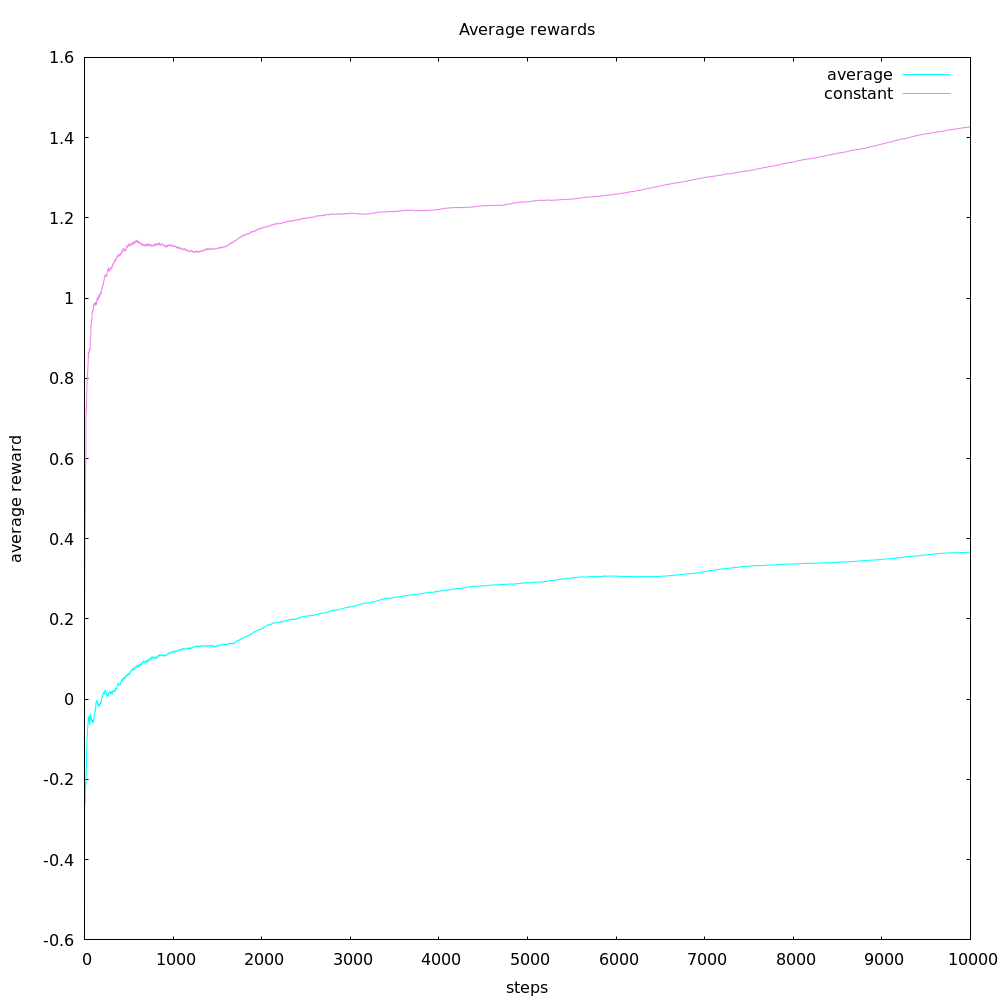
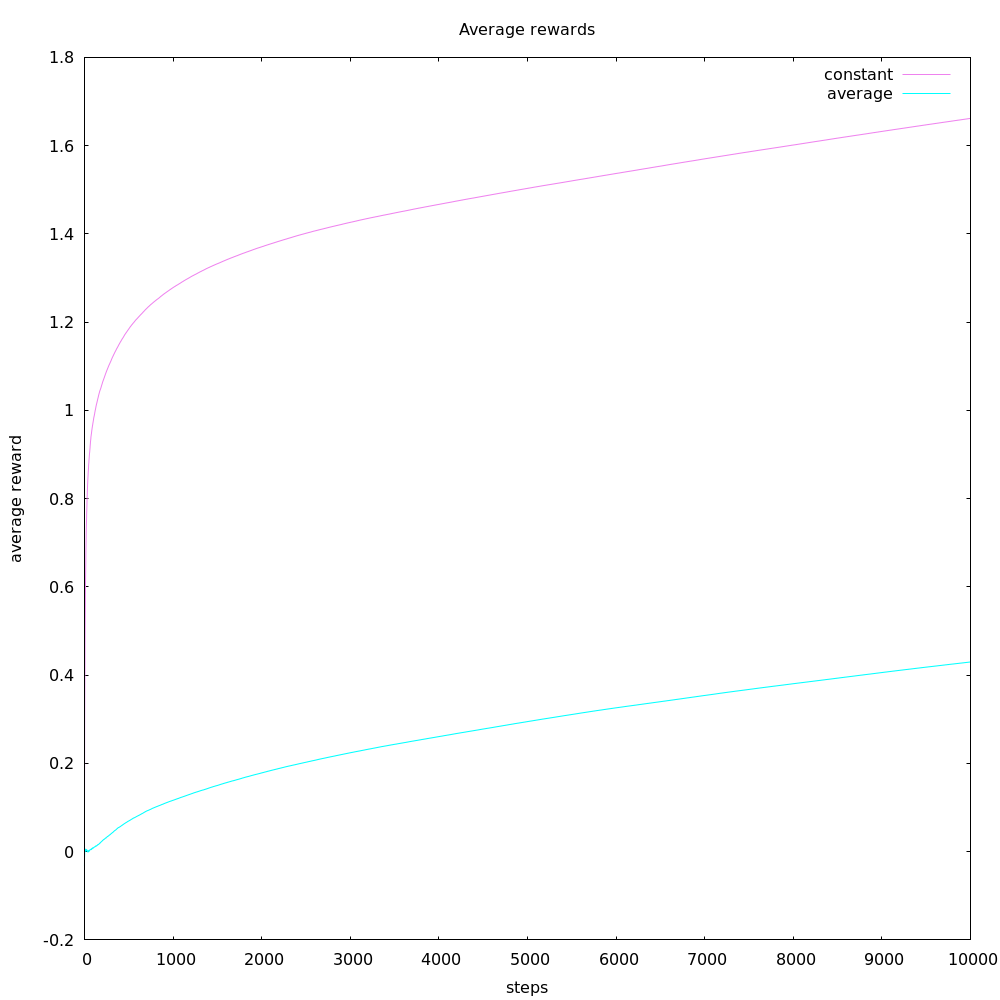
Use more runs.

diff --git a/2.5/src/main.rs b/2.5/src/main.rs
@@ -7,7 +7,7 @@ use std::f64::NEG_INFINITY;
 const NUM_ARMS: usize = 10;
 const EPSILON: f64 = 0.1;
 const STEPS: usize = 10000;
-const RUNS: usize = 10;
+const RUNS: usize = 2000;
 
 
 struct Arm {
